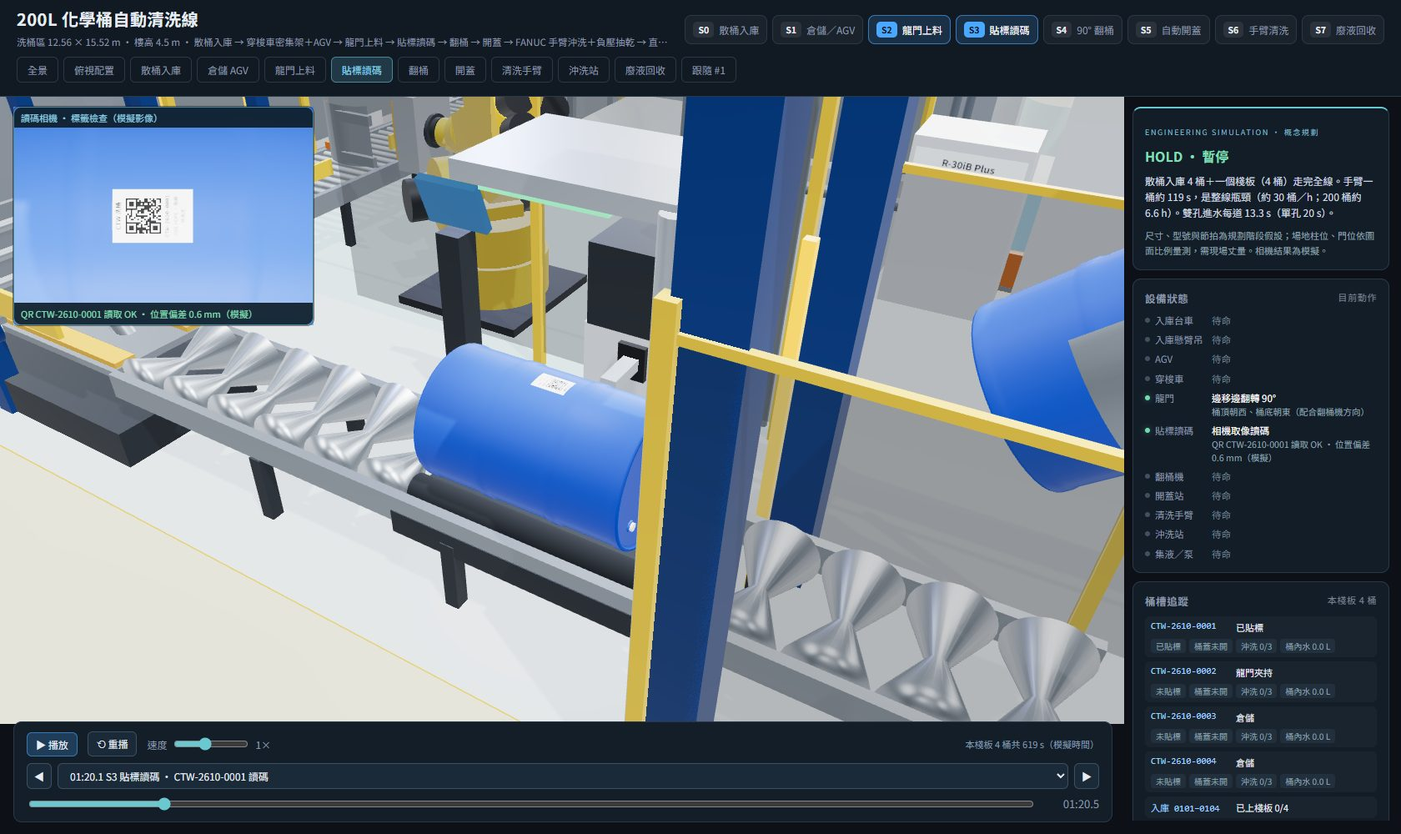
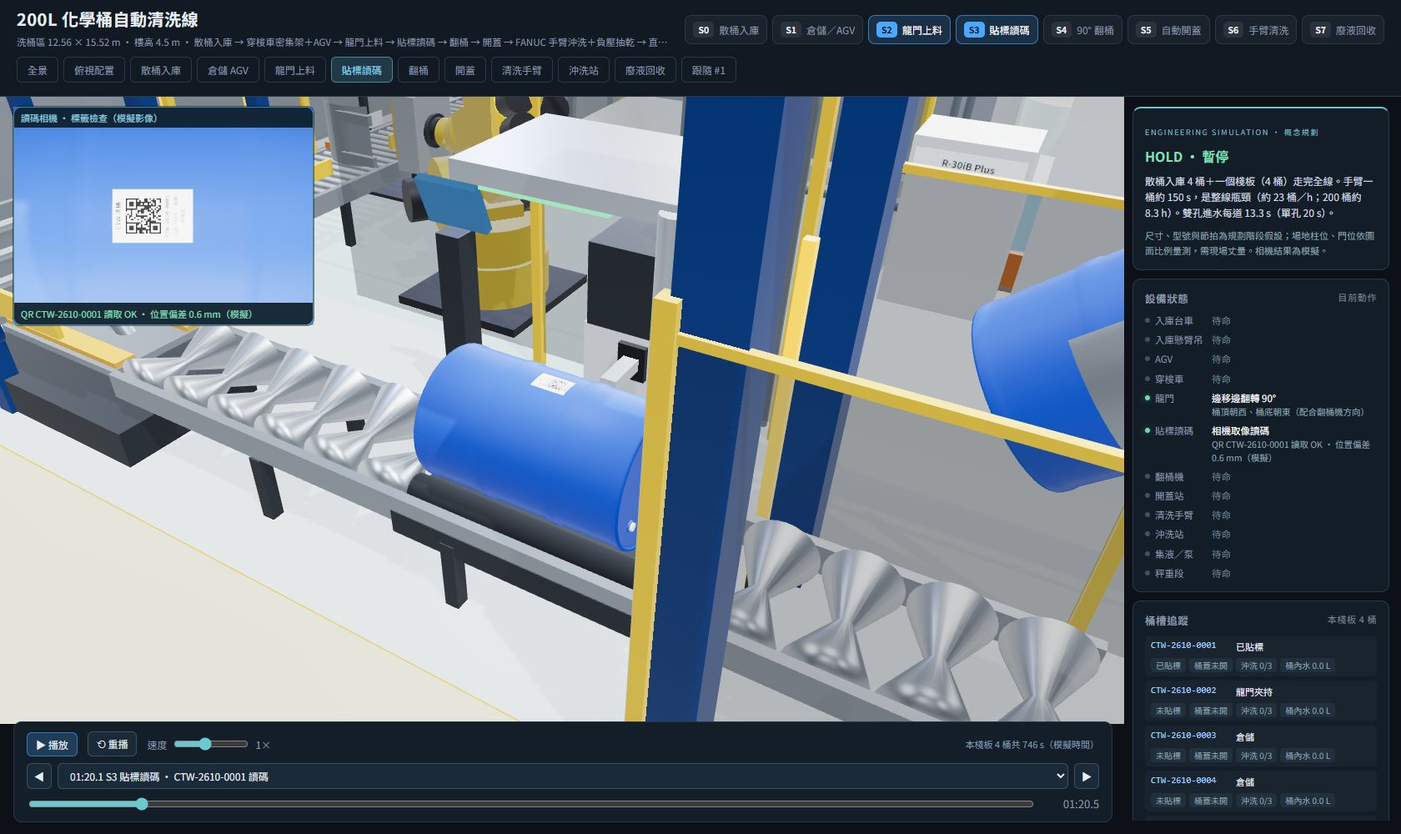
Dry drum walls with hot air, weigh residue, split acid and alkali waste
- After vacuuming the pooled water, switch the 3/4" lance to 70 C hot
  air while the bottom lance keeps suction, so the wall film leaves with
  the airflow (30 s). Adds heater HB-1 and its piping.
- Turn the return position into a weighing section; residue = weight
  minus the per-drum tare registered at first wash, released below
  100 g. Drum panel shows the residue.
- Route first and second rinses by drum ID to TK-WA (acid) or TK-WB
  (alkali); the bund extends west into the reserve area.
- Model one pallet shuttle per level (3 in total), moved between lanes
  by the AGV.

Robot cycle is now 150 s per drum (about 24 drums/h), kept as decided.
All geometry checks pass.

diff --git a/TestCode/ChemicalTankWashing/web/js/sequence.js b/TestCode/ChemicalTankWashing/web/js/sequence.js
@@ -1,7 +1,7 @@
 // 動畫排程：每台設備與每個桶各有一條時間軌，依站位占用（流水線阻塞）推算交接時刻。
 // 任一時刻的畫面完全由絕對時間決定，倒退、跳站與連續播放結果一致。
 import * as THREE from 'three';
-import { RACK, PALLET, DRUM, AGV, FORK, AISLE, PALLET_STATION, GANTRY, LYING, LABEL, UPENDER, UPRIGHT, DECAP, BOOTH, WASTE, INBOUND } from './layout.js';
+import { RACK, PALLET, DRUM, AGV, FORK, AISLE, PALLET_STATION, GANTRY, LYING, LABEL, UPENDER, UPRIGHT, DECAP, BOOTH, WASTE, INBOUND, WEIGH } from './layout.js';
 import { jibPoint, jibTarget, DOLLY_H } from './inbound.js';
 import { smooth, D2R } from './parts.js';
 import { JOINTS, SPEED } from './robot.js';
@@ -40,6 +40,10 @@ export const IN_IDS = [101, 102, 103, 104].map(i => `CTW-2610-${String(i).padSta
 // 時間軌名稱：產線 4 桶＋入庫 4 桶
 export const DRUM_KEYS = [...DRUM_IDS.map((_, k) => 'drum' + k), ...IN_IDS.map((_, k) => 'in' + k)];
 const YAW0 = [37, 151, 263, 312], YAW_IN = [12, 205, 98, 300];
+// 桶內原化學品（標籤讀碼後由 MES 帶出）：決定廢液進酸槽或鹼槽
+export const CHEM = ['acid', 'alkali', 'acid', 'alkali'];
+const RESIDUAL_G = [46, 38, 57, 41];   // 模擬的秤重殘水量（g）
+const TANK_NAME = { WA: 'TK-WA 酸性廢液槽', WB: 'TK-WB 鹼性廢液槽', R: 'TK-R 回收槽' };
 // 每次沖洗時間：兩支噴槍同時進水（2" 旋轉噴頭＋3/4" 直噴）
 export const SPRAY_S = WASTE.rinseL / (BOOTH.flow.big + BOOTH.flow.small) * 60;
 export const SPRAY_SINGLE_S = WASTE.rinseL / BOOTH.flow.big * 60;
@@ -57,13 +61,14 @@ export function createSequence({ robot }) {
   const decap = track('decap', { hx: 0, hz: 0, hy: DECAP.safeY, spinBig: 0, spinSmall: 0, flash: false, clamp: 0, table: 0, caps: 0, heldBig: false, heldSmall: false });
   const grip = track('grip', { jaw: 0 });
   // lance：0 收回、1 噴洗深度、BOOTH.suckExt 伸到桶底抽液；lance2 為 3/4" 直噴頭
-  const booth = track('booth', { lance: 0, lance2: 0, spray: false, vac: false, src: 'R', pour: '', pool: 0 });   // pour：倒液中的桶序（字串，不插值）
-  const sump = track('sump', { level: 0, pump: false, dest: 'W' });
+  const booth = track('booth', { lance: 0, lance2: 0, spray: false, vac: false, hot: false, src: 'R', pour: '', pool: 0 });
+  const scale = track('scale', { on: false, g: 0 });   // pour：倒液中的桶序（字串，不插值）
+  const sump = track('sump', { level: 0, pump: false, dest: 'WA' });
   const makeup = track('makeup', { on: false });   // TK-F 液位控制補水（廠務自來水／RO）
-  const tanks = track('tanks', { W: WASTE.tanks.W.init, R: WASTE.tanks.R.init, F: WASTE.tanks.F.init });
+  const tanks = track('tanks', Object.fromEntries(Object.entries(WASTE.tanks).map(([k, t]) => [k, t.init])));
   const jib = track('jib', { a: INBOUND.jib.park, r: 700, y: 2000, clamp: 0 });
   const dolly = track('dolly', { x: INBOUND.dolly.x0 });
-  const drums = DRUM_IDS.map((id, k) => track('drum' + k, { mode: 'pallet', slot: k, yaw: YAW0[k], lx: LYING.place, uz: UPRIGHT.z0, water: 0, capBig: true, capSmall: true, label: false, labelAng: 0, read: false, rinse: 0, dry: false, state: '倉儲' }));
+  const drums = DRUM_IDS.map((id, k) => track('drum' + k, { mode: 'pallet', slot: k, yaw: YAW0[k], lx: LYING.place, uz: UPRIGHT.z0, water: 0, film: 0, weighG: -1, capBig: true, capSmall: true, label: false, labelAng: 0, read: false, rinse: 0, dry: false, state: '倉儲' }));
   const inDrums = IN_IDS.map((id, k) => track('in' + k, { mode: 'hidden', slot: 0, yaw: YAW_IN[k], water: 0, capBig: true, capSmall: true, label: false, labelAng: 0, read: false, rinse: 0, dry: false, state: '廠外待入' }));
   const events = [];
   const ev = (s, station, label) => { events.push({ time: s.start, station, label: label || s.action }); return s; };
@@ -193,7 +198,7 @@ export function createSequence({ robot }) {
     const rs = labeler.add(1.6, { spin: labeler.state.spin + spin / 90 }, { action: '旋轉輥帶動桶身', sub: '標籤轉到正上方' });
     d.add(1.6, { yaw: d.state.yaw + spin }, { at: rs.start });
     ev(labeler.add(.9, { flash: true }, { action: '相機取像讀碼', sub: `QR ${id} 讀取 OK · 位置偏差 0.6 mm（模擬）` }), 'label', `${id} 讀碼`);
-    d.add(0, { read: true }, { at: labeler.t });
+    d.add(0, { read: true, chem: CHEM[k] }, { at: labeler.t });
     labeler.add(.2, { flash: false }, { action: '讀碼完成' });
     r.labelDone = labeler.t;
     // ---- 貼標站 → 緩衝位 → 翻桶機
@@ -258,7 +263,7 @@ export function createSequence({ robot }) {
     const en = rAdd('lin', P.u, 1.8, { action: '送入沖洗站', sub: '2" 與 3/4" 桶口對準兩支噴槍' });
     events.push({ time: en.start, station: 'robot', label: `${id} 進入沖洗站` });
     for (let c = 1; c <= 3; c++) {
-      const src = c === 1 ? 'R' : 'F', dest = c < 3 ? 'W' : 'R';
+      const src = c === 1 ? 'R' : 'F', dest = c < 3 ? (CHEM[k] === 'acid' ? 'WA' : 'WB') : 'R';
       booth.hold(rt);
       booth.add(1, { lance: 1, lance2: 1, src }, { action: `第 ${c} 次沖洗：兩支噴槍伸入桶口`, sub: '2" 旋轉噴頭、3/4" 直噴頭同時伸入約 140 mm' });
       const sp = booth.add(SPRAY_S, { spray: true }, { action: `第 ${c} 次沖洗：雙孔同時進水 ${SPRAY_S.toFixed(1)} s`, sub: `${WASTE.rinseL} L ＝ 2" ${BOOTH.flow.big}＋3/4" ${BOOTH.flow.small} L/min（單孔需 ${SPRAY_SINGLE_S.toFixed(0)} s）；水源 ${src === 'R' ? 'TK-R 回收水' : 'TK-F 清水'}` });
@@ -271,13 +276,13 @@ export function createSequence({ robot }) {
       rAdd('path', null, 5, { motion: shakeAt, action: `第 ${c} 次搖晃`, sub: '繞夾爪軸來回滾轉 ±25°，殘液沖刷桶壁' });
       rAdd('lin', P.pour, 2.2, { action: `第 ${c} 次倒液：翻轉 190°`, sub: '2" 桶口轉到最低點出水，3/4" 在上方當通氣口' });
       booth.hold(rt);
-      const pr = booth.add(BOOTH.pourS, { pour: String(k), pool: 1 }, { action: `倒入集液漏斗 → ${dest === 'W' ? 'TK-W 廢液槽' : 'TK-R 回收槽'}`, sub: `3/4" 通氣不咕嚕，約 ${BOOTH.pourS} s（不通氣約 ${BOOTH.pourNoVentS} s）` });
-      d.add(BOOTH.pourS, { water: c < 3 ? 0 : BOOTH.residualL }, { at: pr.start });
+      const pr = booth.add(BOOTH.pourS, { pour: String(k), pool: 1 }, { action: `倒入集液漏斗 → ${TANK_NAME[dest]}`, sub: `3/4" 通氣不咕嚕，約 ${BOOTH.pourS} s（不通氣約 ${BOOTH.pourNoVentS} s）` });
+      d.add(BOOTH.pourS, { water: c < 3 ? 0 : BOOTH.residualL, film: c < 3 ? 0 : BOOTH.filmG }, { at: pr.start });
       if (k === 0 && c === 1) ev(pr, 'waste', '倒液進集液漏斗');
       sump.add(BOOTH.pourS, { level: 1, dest }, { at: pr.start });
       booth.add(.1, { pour: '', pool: 0 });
-      const pm = sump.add(3, { pump: true, level: 0 }, { action: `P-2 送液 → ${dest === 'W' ? 'TK-W' : 'TK-R'}`, sub: 'V-3 三通閥切換去向' });
-      tanks.add(3, { [dest]: tanks.state[dest] + WASTE.rinseL }, { at: pm.start, action: `集液槽 → ${dest === 'W' ? 'TK-W' : 'TK-R'}` });
+      const pm = sump.add(3, { pump: true, level: 0 }, { action: `P-2 送液 → ${TANK_NAME[dest]}`, sub: dest === 'R' ? 'V-3 切到回收槽' : `依桶號判定${CHEM[k] === 'acid' ? '酸性' : '鹼性'}，V-3／V-4 切換去向` });
+      tanks.add(3, { [dest]: tanks.state[dest] + WASTE.rinseL }, { at: pm.start, action: `集液槽 → ${TANK_NAME[dest]}` });
       if (k === 0 && c === 3) ev(pm, 'waste', '末道沖洗水回收至 TK-R');
       sump.add(0, { pump: false });
       rt = Math.max(rt, pr.start + BOOTH.pourS);
@@ -290,9 +295,14 @@ export function createSequence({ robot }) {
     booth.add(2.2, { lance: BOOTH.suckExt }, { action: '抽液管伸到桶底', sub: '2" 噴槍長行程伸入，吸口距桶底約 15 mm' });
     const vs = booth.add(BOOTH.vacS, { vac: true }, { action: '負壓抽乾殘水', sub: `真空泵 VP-1 抽約 ${BOOTH.residualL} L 殘水 → 集液槽 → TK-R；目標殘水 < 50 mL` });
     if (k === 0) ev(vs, 'waste', '負壓抽乾桶內殘水');
-    d.add(BOOTH.vacS, { water: 0, dry: true }, { at: vs.start });
+    d.add(BOOTH.vacS, { water: 0 }, { at: vs.start });
     sump.add(BOOTH.vacS, { level: .3, dest: 'R' }, { at: vs.start });
-    booth.add(2, { vac: false, lance: 0 }, { action: '抽液管收回' });
+    // 內壁附著水：熱風由 3/4" 進、桶底負壓持續抽，水膜與水氣一起帶走
+    booth.add(1, { lance2: 1 }, { action: '3/4" 噴槍切換熱風並伸入', sub: `HB-1 熱風機 ${BOOTH.hotAirC}°C 乾燥空氣` });
+    const hd = booth.add(BOOTH.dryS, { hot: true }, { action: '熱風吹乾＋負壓抽氣', sub: `熱風由 3/4" 進、2" 桶底負壓抽出，帶走內壁約 ${BOOTH.filmG} g 附著水與水氣` });
+    if (k === 0) ev(hd, 'waste', '熱風吹乾內壁附著水');
+    d.add(BOOTH.dryS, { film: RESIDUAL_G[k], dry: true, state: '熱風吹乾' }, { at: hd.start });
+    booth.add(2, { hot: false, vac: false, lance: 0, lance2: 0 }, { action: '熱風、負壓停止，噴槍收回' });
     sump.add(1.5, { pump: true, level: 0 }, { action: 'P-2 送液 → TK-R' }); sump.add(0, { pump: false });
     rt = booth.t;
     rAdd('lin', P.u, 1.5, { action: '轉正' });
@@ -305,7 +315,12 @@ export function createSequence({ robot }) {
     grip.hold(rt); grip.add(.8, { jaw: 0 }, { action: '夾爪鬆開' }); rt = grip.t;
     d.add(0, { mode: 'upright', uz: UPRIGHT.place, yaw: 90, state: '已洗淨' }, { at: rt });
     ev(rAdd('lin', P.retract, 1, { action: '夾爪退出' }), 'robot', `${id} 放回輸送線`);
-    d.add(travelUp(UPRIGHT.handoff - UPRIGHT.place), { uz: UPRIGHT.handoff, state: '送往裝填區' }, { at: rt });
+    // 秤重段：殘水 = 秤重 − 桶號建檔的空桶重，< 100 g 才放行（NG 時手臂夾回補吹）
+    const wg = scale.add(WEIGH.sec, { on: true, g: RESIDUAL_G[k] }, { at: rt + 1, action: '秤重確認乾燥', sub: `殘水 ${RESIDUAL_G[k]} g < ${WEIGH.limitG} g，放行（模擬）` });
+    if (k === 0) ev(wg, 'robot', '秤重確認殘水 < 100 g');
+    scale.add(0, { on: false });
+    d.add(0, { weighG: RESIDUAL_G[k], state: '秤重 OK' }, { at: scale.t });
+    d.add(travelUp(UPRIGHT.handoff - UPRIGHT.place), { uz: UPRIGHT.handoff, state: '送往裝填區' }, { at: scale.t });
     r.handoff = d.t;
     d.add(2.5, { state: '交裝填區' });
     d.add(0, { mode: 'gone' });

diff --git a/TestCode/ChemicalTankWashing/web/js/washing.js b/TestCode/ChemicalTankWashing/web/js/washing.js
@@ -52,6 +52,9 @@ export function createWashing(scene) {
   const sprayMat = MAT.water.clone(); sprayMat.opacity = .35; sprayMat.side = THREE.DoubleSide;
   const spray = new THREE.Mesh(new THREE.ConeGeometry(240, 420, 24, 1, true), sprayMat); spray.position.y = 210; spray.visible = false; lance.add(spray);
   const jet = new THREE.Mesh(new THREE.CylinderGeometry(14, 22, 700, 10, 1, true), sprayMat); jet.position.y = -350; jet.visible = false; lance2.add(jet);
+  // 熱風機 HB-1（屋頂）：鼓風機＋電熱器，經 3/4" 噴槍送入熱風
+  box(group, 460, 340, 380, MAT.steelOrange, 9150, H + 170, 15150);
+  plate(group, ['HB-1 熱風機 70°C'], 600, 120, [9150, H + 430, 14955], Math.PI, { w: 640, h: 110 });
   // 真空泵 VP-1（屋頂）：抽液管頂端軟管 → 真空泵 → 集液槽
   box(group, 520, 380, 420, MAT.steelBlue, 9850, H + 190, 15150);
   plate(group, ['VP-1 真空泵（負壓抽液）'], 700, 120, [9850, H + 480, 14935], Math.PI, { w: 640, h: 110 });
@@ -69,7 +72,7 @@ export function createWashing(scene) {
   for (const [k, t] of Object.entries(WASTE.tanks)) {
     const shell = cyl(group, t.r, t.h, MAT.tankW, t.x, 40 + t.h / 2, t.z, 'y', 36); shell.castShadow = false;
     cyl(group, t.r + 5, 30, MAT.ppSolid, t.x, 40 + t.h + 15, t.z, 'y', 36);
-    const liquid = cyl(group, t.r - 25, 1, k === 'W' ? MAT.tankWaste : k === 'R' ? MAT.tankClean : MAT.tankFresh, t.x, 50, t.z, 'y', 32);
+    const liquid = cyl(group, t.r - 25, 1, k === 'WA' ? MAT.tankWaste : k === 'WB' ? MAT.tankAlkali : k === 'R' ? MAT.tankClean : MAT.tankFresh, t.x, 50, t.z, 'y', 32);
     plate(group, [t.name, `${t.cap} L`], Math.max(700, t.r * 1.8), 230, [t.x, t.h + 330, t.z - t.r - 10], Math.PI, { w: 640, h: 210 });
     tanks[k] = { t, liquid };
   }
@@ -79,22 +82,28 @@ export function createWashing(scene) {
   box(group, 250, 420, 360, MAT.ppDark, p2x, 210, p2z); cyl(group, 140, 50, MAT.ppSolid, p2x, 260, p2z - 200, 'z', 20); cyl(group, 140, 50, MAT.ppSolid, p2x, 260, p2z + 200, 'z', 20);
   plate(group, ['P-1 沖洗泵'], 420, 110, [p1x + 130, 560, p1z], Math.PI / 2, { w: 512, h: 130 });
   plate(group, ['P-2 隔膜泵'], 420, 110, [p2x + 130, 560, p2z], Math.PI / 2, { w: 512, h: 130 });
-  const tW = WASTE.tanks.W, tR = WASTE.tanks.R, tF = WASTE.tanks.F;
+  const tA = WASTE.tanks.WA, tB = WASTE.tanks.WB, tR = WASTE.tanks.R, tF = WASTE.tanks.F;
   const pipes = {
     fromF: pipe(group, [[tF.x + tF.r, 150, tF.z], [p1x - 180, 150, tF.z], [p1x - 180, 150, p1z - 160], [p1x - 60, 300, p1z - 160]], 30, 0x8fd3ff),
     fromR: pipe(group, [[tR.x + tR.r, 150, tR.z], [p1x - 60, 150, tR.z], [p1x - 60, 300, p1z - 160]], 30, 0x58b6f2),
     supply: pipe(group, [[p1x, 420, p1z - 160], [p1x, 2800, p1z - 160], [lx, 2800, p1z - 160], [lx, 2800, lz - 300], [lx2, 2800, lz2 - 300], [lx2, H + 320, lz2 - 300], [lx2, H + 320, lz2]], 30, 0x4aa8ff),
     supply2: pipe(group, [[lx, 2800, lz - 300], [lx, 2800, lz - 150], [lx, H + 1350, lz - 150], [lx, H + 1350, lz]], 26, 0x4aa8ff),
+    hot: pipe(group, [[9150, H + 340, 15150], [9150, H + 700, 15150], [lx2, H + 700, 15150], [lx2, H + 700, lz2 + 150], [lx2, H + 320, lz2 + 150], [lx2, H + 320, lz2 + 40]], 26, 0xff5a3c),
     vac: pipe(group, [[lx, H + 1350, lz + 120], [lx, H + 1350, 15150], [9850, H + 1350, 15150], [9850, H + 380, 15150]], 26, 0xb07cff),
     vacOut: pipe(group, [[10110, H + 100, 15150], [10150, H + 100, 15150], [10150, 120, 15150], [fx + 300, 120, 15150], [fx + 300, 120, fz + 300]], 30, 0xb07cff),
     sump: pipe(group, [[fx - 300, 120, fz], [b.x0 - 150, 120, fz], [b.x0 - 150, 120, p2z], [p2x + 125, 120, p2z]], 36, 0xd88a3c),
-    toW: pipe(group, [[p2x, 420, p2z], [p2x, 2100, p2z], [tW.x, 2100, p2z], [tW.x, 2100, tW.z], [tW.x, 40 + tW.h, tW.z]], 34, 0xd88a3c),
+    riser: pipe(group, [[p2x, 420, p2z], [p2x, 2100, p2z]], 34, 0xd88a3c),
+    toWB: pipe(group, [[p2x, 2100, p2z], [tB.x, 2100, p2z], [tB.x, 2100, tB.z], [tB.x, 40 + tB.h, tB.z]], 34, 0xb07cff),
+    toWA: pipe(group, [[p2x, 2100, p2z], [p2x, 2100, p2z + 200], [tA.x, 2100, p2z + 200], [tA.x, 2100, tA.z], [tA.x, 40 + tA.h, tA.z]], 34, 0xff7a45),
     toR: pipe(group, [[p2x, 2100, p2z], [p2x, 2100, tR.z], [tR.x, 2100, tR.z], [tR.x, 40 + tR.h, tR.z]], 34, 0x3dd68c),
     city: pipe(group, [[tF.x, 2400, ROOM.D], [tF.x, 2400, tF.z], [tF.x, 40 + tF.h, tF.z]], 26, 0x8fd3ff),
-    out: pipe(group, [[tW.x, 150, tW.z + tW.r], [tW.x, 150, ROOM.D - 60], [tW.x, 900, ROOM.D - 60]], 34, 0xd88a3c),
+    outA: pipe(group, [[tA.x, 150, tA.z + tA.r], [tA.x, 150, ROOM.D - 60], [tA.x, 900, ROOM.D - 60]], 34, 0xff7a45),
+    outB: pipe(group, [[tB.x, 150, tB.z + tB.r], [tB.x, 150, ROOM.D - 60], [tB.x, 900, ROOM.D - 60]], 34, 0xb07cff),
   };
   box(group, 180, 180, 180, MAT.steelOrange, p2x, 2100, p2z);                         // V-3 三通切換閥
-  box(group, 260, 160, 120, MAT.steelOrange, tW.x, 900, ROOM.D - 70);                   // 委外清運接頭  // 排氣
+  for (const t of [tA, tB]) box(group, 260, 160, 120, MAT.steelOrange, t.x, 900, ROOM.D - 70);   // 委外清運接頭（酸、鹼分開）
+  box(group, 160, 160, 160, MAT.steelOrange, p2x, 2100, p2z + 200);                     // V-4 酸／鹼切換閥
+   // 排氣
   cyl(group, 140, ROOM.H - H - 100, MAT.ppSolid, 9000, H + (ROOM.H - H - 100) / 2, 15150, 'y', 20);
   plate(group, ['排氣 → 廠務洗滌塔'], 900, 140, [9000, 3700, 14990], Math.PI, { w: 640, h: 100 });
 
@@ -110,7 +119,7 @@ export function createWashing(scene) {
       } else stream.visible = false;
       pool.visible = pl > 0; pool.scale.setScalar(Math.max(.2, pl));
       sumpLevel.scale.y = Math.max(1, sump * 200); sumpLevel.position.y = 10 + sumpLevel.scale.y / 2;
-      if (lv) for (const k of ['W', 'R', 'F']) { const { t, liquid } = tanks[k], h = Math.max(1, (lv[k] / t.cap) * (t.h - 40)); liquid.scale.y = h; liquid.position.y = 50 + h / 2; }
+      if (lv) for (const k of ['WA', 'WB', 'R', 'F']) { const { t, liquid } = tanks[k], h = Math.max(1, (lv[k] / t.cap) * (t.h - 40)); liquid.scale.y = h; liquid.position.y = 50 + h / 2; }
       for (const [k, p] of Object.entries(pipes)) p.setFlow(!!flows[k]);
     },
     tick(dt) { for (const p of Object.values(pipes)) p.tick(dt); streamTex.offset.y -= dt * 3; },

diff --git a/TestCode/ChemicalTankWashing/web/js/main.js b/TestCode/ChemicalTankWashing/web/js/main.js
@@ -77,8 +77,9 @@ function applyState(sm) {
   washing.set({
     lance: b.lance, lance2: b.lance2, spray: b.spray, pool: b.pool, sump: sp.level, tanks: st.tanks,
     pour: b.pour !== '' ? drums[+b.pour].bungWorld('big') : null,
-    flows: { vac: b.vac, vacOut: b.vac, supply: b.spray, supply2: b.spray, fromF: b.spray && b.src === 'F', fromR: b.spray && b.src === 'R', sump: sp.pump, toW: sp.pump && sp.dest === 'W', toR: sp.pump && sp.dest === 'R', city: st.makeup.on },
+    flows: { hot: b.hot, vac: b.vac, vacOut: b.vac, supply: b.spray, supply2: b.spray, fromF: b.spray && b.src === 'F', fromR: b.spray && b.src === 'R', sump: sp.pump, riser: sp.pump, toWA: sp.pump && sp.dest === 'WA', toWB: sp.pump && sp.dest === 'WB', toR: sp.pump && sp.dest === 'R', city: st.makeup.on },
   });
+  line.setScale(st.scale.on);
   line.setTower(playing ? 'run' : 'wait');
 }
 
@@ -97,11 +98,11 @@ for (const s of STATIONS) {
   const b = document.createElement('button'); b.className = 'st'; b.dataset.st = s.id; b.innerHTML = `<span class="idx">${s.short}</span>${s.name}`;
   b.onclick = () => { seekTo(seq.stationStart[s.id]); setView(VIEW_OF[s.id]); }; ui.stations.appendChild(b);
 }
-const EQUIP = [['dolly', '入庫台車'], ['jib', '入庫懸臂吊'], ['agv', 'AGV'], ['shuttle', '穿梭車'], ['gantry', '龍門'], ['labeler', '貼標讀碼'], ['upender', '翻桶機'], ['decap', '開蓋站'], ['robot', '清洗手臂'], ['booth', '沖洗站'], ['sump', '集液／泵']];
+const EQUIP = [['dolly', '入庫台車'], ['jib', '入庫懸臂吊'], ['agv', 'AGV'], ['shuttle', '穿梭車'], ['gantry', '龍門'], ['labeler', '貼標讀碼'], ['upender', '翻桶機'], ['decap', '開蓋站'], ['robot', '清洗手臂'], ['booth', '沖洗站'], ['sump', '集液／泵'], ['scale', '秤重段']];
 ui.equip.innerHTML = EQUIP.map(([k, n]) => `<div class="row" data-k="${k}"><span class="name"><i></i>${n}</span><span class="act"></span></div>`).join('');
 ui.drums.innerHTML = DRUM_IDS.map((id, k) => `<div class="d" data-k="${k}"><span class="id">${id}</span><span class="state"></span><span class="tags"></span></div>`).join('')
   + `<div class="d inb"><span class="id">入庫 0101–0104</span><span class="state"></span></div>`;
-const TANKS = [['W', '#c77b34'], ['R', '#58b6f2'], ['F', '#8fd3ff']];
+const TANKS = [['WA', '#c77b34'], ['WB', '#8c6bd6'], ['R', '#58b6f2'], ['F', '#8fd3ff']];
 ui.tanks.innerHTML = TANKS.map(([k, c]) => `<div class="tank" data-k="${k}"><span>${WASTE.tanks[k].name}</span><span class="bar"><i style="background:${c}"></i></span><span class="v"></span></div>`).join('');
 const checks = layoutChecks();
 ui.checks.innerHTML = checks.map(c => `<li class="${c.ok ? '' : 'ng'}"><span class="mk">${c.ok ? '✓' : '!'}</span><span><b>${c.group}｜${c.name}</b><small>${c.value}</small></span></li>`).join('');
@@ -128,7 +129,7 @@ const VIEWS = {
   storage: [[2300, 4300, 8600], [6300, 1500, 3800]], gantry: [[1200, 4300, 13800], [4700, 1100, 9700]],
   label: [[6000, 2900, 7300], [7500, 900, 9800]], upender: [[8400, 3600, 7400], [10900, 1000, 10100]],
   decap: [[9700, 3300, 8900], [11290, 1350, 11000]], robot: [[6200, 5600, 10200], [9900, 1100, 13400]],
-  booth: [[7300, 2300, 15000], [9400, 1150, 14550]], waste: [[2600, 3400, 15300], [5900, 900, 14300]],
+  booth: [[7300, 2300, 15000], [9400, 1150, 14550]], waste: [[1500, 4300, 11600], [5000, 800, 14600]],
   inbound: [[-900, 3900, 7400], [2300, 900, 2900]],
 };
 function setView(name, instant = false) {
@@ -173,10 +174,10 @@ function drawHud() {
     const s = st['drum' + row.dataset.k];
     row.querySelector('.state').textContent = s.state;
     row.querySelector('.tags').innerHTML = [
-      [s.label ? (s.read ? '標籤讀碼 OK' : '已貼標') : '未貼標', s.read],
+      [s.label ? (s.read ? `讀碼 OK · ${s.chem === 'acid' ? '酸性' : '鹼性'}` : '已貼標') : '未貼標', s.read],
       [s.capBig || s.capSmall ? '桶蓋未開' : '桶口已開', !s.capBig && !s.capSmall],
       [`沖洗 ${s.rinse}/3`, s.rinse === 3 && s.mode !== 'robot'],
-      [s.dry ? '殘水已抽乾' : `桶內水 ${s.water.toFixed(1)} L`, s.dry],
+      [s.weighG >= 0 ? `殘水 ${s.weighG} g OK` : s.dry ? `熱風吹乾（附著 ${s.film.toFixed(0)} g）` : s.film > 0 ? `附著水 ${s.film.toFixed(0)} g` : `桶內水 ${s.water.toFixed(1)} L`, s.weighG >= 0],
     ].map(([t, ok]) => `<span class="tag ${ok ? 'ok' : ''}">${t}</span>`).join('');
   }
   // 手臂負載：夾持中的桶＋桶內水量

diff --git a/TestCode/ChemicalTankWashing/web/js/layout.js b/TestCode/ChemicalTankWashing/web/js/layout.js
@@ -40,6 +40,8 @@ export const RACK = {
   topBeam: 3700,
   shuttleLift: 40,
   emptyLane: 4, emptyLevel: 0, emptyStack: 5,   // 空棧板疊放道（東側最後一道底層，緩衝用）
+  // 穿梭車每層一台共 3 台，換道時由 AGV 以貨叉搬運（每次約 1 分鐘）；[道, 層, 停放位]
+  shuttles: [[3, 0, 3], [1, 1, 3], [0, 2, 3]],
   demo: { lane: 1, level: 1 },                  // 動畫取料：第 2 道第 2 層
   putaway: { lane: 2, level: 0 },               // 動畫入庫：第 3 道底層前位（初始空位）
   shortLane: 0, shortFront: 4100,               // 第 1 道只做 3 深（前緣退到 Z 4100）
@@ -109,7 +111,12 @@ export const BOOTH = {
   flow: { big: 60, small: 30 }, pourS: 3.5, pourNoVentS: 7,
   // 末道倒液後負壓抽乾：2" 噴槍長行程伸到桶底低角（吸口距桶底約 15 mm）；桶身朝 2" 側傾 3°，傾 6° 時直管會碰到桶壁
   suckExt: 2.76, suckTilt: 3, vacS: 6, residualL: .4,
+  // 內壁附著水：3/4" 噴槍切換熱風（HB-1，約 70°C 乾燥空氣，低於 HDPE 軟化溫度），2" 吸管在桶底持續負壓，
+  // 空氣由 3/4" 進、2" 出，帶走水膜與水氣
+  dryS: 30, hotAirC: 70, filmG: 120,
 };
+// 乾燥驗收：放回位為秤重段，殘水 = 秤重 − 該桶號建檔的空桶重；同型號空桶重差約 ±100 g，故需逐桶建檔
+export const WEIGH = { limitG: 100, sec: 2.5, resolutionG: 10 };
 
 // 手臂負載（R-2000iC/165F）：額定與手腕容許值取型錄等級概略值，採購前以 FANUC 型錄核對
 export const PAYLOAD = {
@@ -139,11 +146,13 @@ export function maxWaterL() {
 export const FENCE = [[7000, 15520], [7000, 11300], [11700, 11300], [11700, 13850], [10200, 13850], [10200, 15520]];
 export const GANTRY_FENCE = [[2900, 8950], [6700, 8950], [6700, 10450], [2900, 10450]];
 
-// 廢液回收：放在清洗區圍籬外西南側（控制櫃南面）的防溢堤內，避開手臂迴轉範圍
+// 廢液回收：放在清洗區圍籬外西南側（控制櫃南面）的防溢堤內，避開手臂迴轉範圍。
+// 酸、鹼殘液依讀到的桶號分流到兩個廢液槽，避免混合後發熱或產生氣體；防溢堤往西延伸到預留區
 export const WASTE = {
-  bund: [4450, 13950, 7000, 15420],
+  bund: [3300, 13950, 7000, 15420],
   tanks: {
-    W: { x: 5100, z: 14700, r: 600, h: 1800, cap: 2000, init: 640, name: 'TK-W 廢液槽' },
+    WA: { x: 3950, z: 14690, r: 550, h: 1800, cap: 1600, init: 520, name: 'TK-WA 酸性廢液槽' },
+    WB: { x: 5150, z: 14690, r: 550, h: 1800, cap: 1600, init: 380, name: 'TK-WB 鹼性廢液槽' },
     R: { x: 6200, z: 14400, r: 400, h: 1600, cap: 800, init: 380, name: 'TK-R 回收沖洗水槽' },
     F: { x: 6200, z: 15100, r: 280, h: 1500, cap: 350, init: 260, name: 'TK-F 清水暫存槽' },
   },

diff --git a/TestCode/ChemicalTankWashing/web/js/line.js b/TestCode/ChemicalTankWashing/web/js/line.js
@@ -98,9 +98,13 @@ export function createLine(scene) {
   for (const [z0, z1] of [[up.z0 + 450, up.pick - 350], [up.pick + 350, up.place - 350], [up.place + 350, up.z1]])
     for (const s of [-1, 1]) box(group, 30, 120, z1 - z0, MAT.yellow, up.x + s * 340, up.top + 160, (z0 + z1) / 2);
   for (const z of [up.pick + DRUM.R + 20, up.place + DRUM.R + 20]) box(group, 120, 60, 40, MAT.steelOrange, up.x + 300, up.top + 40, z);   // 定位擋塊
+  // 放回位秤重段：輸送段架在四顆荷重元上，旁邊有秤重顯示器
+  box(group, 780, 30, 760, MAT.steelDark, up.x, 40, up.place);
+  for (const [dx, dz] of [[-330, -330], [330, -330], [-330, 330], [330, 330]]) cyl(group, 40, 60, MAT.steelBlue, up.x + dx, 85, up.place + dz);
+  const scaleScreen = box(group, 40, 200, 320, MAT.screen, up.x + 520, 1150, up.place); box(group, 60, 1050, 60, MAT.steelDark, up.x + 520, 525, up.place);
   box(group, 700, 40, 40, MAT.steelOrange, up.x, up.top + 40, up.z1 - 20);
   plate(group, ['取桶位'], 420, 110, [up.x - 420, up.top + 420, up.pick], -Math.PI / 2, { w: 512, h: 130 });
-  plate(group, ['放回位'], 420, 110, [up.x - 420, up.top + 420, up.place], -Math.PI / 2, { w: 512, h: 130 });
+  plate(group, ['放回位＋秤重'], 520, 110, [up.x - 420, up.top + 420, up.place], -Math.PI / 2, { w: 512, h: 110 });
   plate(group, ['→ 裝填區（下一站）'], 900, 160, [up.x - 420, 1150, up.handoff - 200], -Math.PI / 2, { w: 640, h: 110 });
 
   // ---------------------------------------------------------------- 自動開蓋站（相機定位 → 旋轉台對位 → 伺服鎖付軸反轉拆蓋）
@@ -197,6 +201,7 @@ export function createLine(scene) {
       turntable.rotation.y = table * D2R;
       capPile.forEach((c, i) => { c.visible = i < caps; });
     },
+    setScale(on) { scaleScreen.material = on ? MAT.green : MAT.screen; },
     setTower(state) { lamps.forEach((l, i) => { l.material.emissiveIntensity = (state === ['fault', 'wait', 'run'][i]) ? 1.2 : .05; }); },
     socket: k => spindles[k],
   };

diff --git a/TestCode/ChemicalTankWashing/web/index.html b/TestCode/ChemicalTankWashing/web/index.html
@@ -53,7 +53,7 @@
       <div class="tank" data-k="i5"><span>J5 慣量</span><span class="bar"><i></i></span><span class="v"></span></div></div>
       <div class="note">夾爪估 60 kg、殘液估 2 kg；限值為型錄等級概略值，需核對。依 J5 力矩最多可裝約 80 L 水。</div></section>
     <section class="card"><h3>水槽液位 <span class="hint">逆流沖洗</span></h3><div id="tanks" class="tanks"></div>
-      <div class="note">第 1 道用 TK-R 回收水，第 2、3 道用清水；第 1、2 道排 TK-W，第 3 道回收 TK-R。每道 20 L；末道後以真空泵 VP-1 抽乾殘水回 TK-R。TK-F 由廠務水依液位自動補水。</div></section>
+      <div class="note">第 1 道用 TK-R 回收水，第 2、3 道用清水；第 1、2 道依桶號排 TK-WA（酸）或 TK-WB（鹼），第 3 道回收 TK-R。每道 20 L；末道後以真空泵 VP-1 抽乾殘水回 TK-R。TK-F 由廠務水依液位自動補水。</div></section>
     <section class="card"><h3>空間檢核 <span class="hint" id="chkCount"></span></h3><ul id="checks" class="checks"></ul></section>
     <section class="card small">
       <h3>顯示</h3>

diff --git a/TestCode/ChemicalTankWashing/web/js/parts.js b/TestCode/ChemicalTankWashing/web/js/parts.js
@@ -23,7 +23,7 @@ export const MAT = {
   water: std(0x6fc4ff, .1, 0, { transparent: true, opacity: .6, depthWrite: false, emissive: 0x0a3a66, emissiveIntensity: .4 }),
   waste: std(0xd88a3c, .3, 0, { transparent: true, opacity: .75 }),
   tankW: std(0xe7e3d6, .6, 0, { transparent: true, opacity: .55, depthWrite: false }),
-  tankWaste: std(0xc77b34, .4, 0), tankClean: std(0x58b6f2, .4, 0), tankFresh: std(0x8fd3ff, .4, 0),
+  tankWaste: std(0xc77b34, .4, 0), tankAlkali: std(0x8c6bd6, .4, 0), tankClean: std(0x58b6f2, .4, 0), tankFresh: std(0x8fd3ff, .4, 0),
   agv: std(0xee8a26, .45, .2), agvDark: std(0x2b3036, .5, .4),
   cabinet: std(0xd9dde0, .5, .2), screen: std(0x10283a, .3, 0, { emissive: 0x1e6fa8, emissiveIntensity: .6 }),
   green: std(0x3dd68c, .4, 0, { emissive: 0x3dd68c, emissiveIntensity: .8 }),

diff --git a/TestCode/ChemicalTankWashing/web/js/storage.js b/TestCode/ChemicalTankWashing/web/js/storage.js
@@ -74,6 +74,8 @@ export function createStorage(scene, makeDrum) {
   box(shuttle, 1000, 150, 1080, MAT.yellow, 0, -95, 0);
   box(shuttle, 900, 16, 980, MAT.steelDark, 0, -12, 0);
   for (const s of [-1, 1]) box(shuttle, 30, 60, 200, MAT.red, s * 505, -95, 520);
+  // 其他兩層的穿梭車停在各自車道後端（示意；換道由 AGV 搬運）
+  for (const [l, v, p] of RACK.shuttles) if (v !== RACK.demo.level) { const s = shuttle.clone(); s.position.set(RACK.lanes[l], RACK.levels[v], RACK.pos[p]); group.add(s); }
   const laneX = RACK.lanes[RACK.demo.lane], laneY = RACK.levels[RACK.demo.level];
   const zAt = pos => { const i = Math.max(0, Math.min(2.999, Math.floor(pos))); return RACK.pos[i] + (RACK.pos[i + 1] - RACK.pos[i]) * (pos - i); };
 

diff --git a/TestCode/ChemicalTankWashing/README.md b/TestCode/ChemicalTankWashing/README.md
@@ -8,7 +8,11 @@
 - **開蓋**：線上自動開蓋。
 - **上料**：棧板上料用龍門加翻轉夾爪。
 - **入庫**：散桶入庫，依手繪圖箭頭由倉儲西牆南段進入，需要上棧板。
-- **清洗**：雙孔進水；末道倒液後以負壓抽乾殘水。
+- **清洗**：雙孔進水；末道倒液後先以負壓抽乾積水，再用熱風吹乾＋負壓同時帶走內壁附著水。
+- **乾燥驗收**：放回位秤重，殘水 < 100 g 才放行。
+- **廢液**：酸、鹼依桶號分兩個廢液槽。
+- **穿梭車**：每層一台共 3 台，換道由 AGV 搬運。
+- **產能**：維持約 24 桶／h，不加站。
 - **動線**：翻桶後直線送到裝填區。
 
 ## 流程
@@ -21,17 +25,18 @@
 | S3 貼標讀碼 | 貼標頭由南側推出貼標 → 旋轉輥把標籤轉到正上方 → 相機讀 QR | 約 7 s／桶 |
 | S4 90° 翻桶 | L 形搖籃以桶底下緣為軸翻正，接著一路往南直送 | 約 6 s＋復歸 |
 | S5 自動開蓋 | 頂視相機定位 → 旋轉台把 2" 轉北、3/4" 轉南 → 伺服鎖付軸反轉拆蓋 | 約 25 s／桶 |
-| S6 手臂清洗 | R-2000iC/165F 從「取桶位」取下 → 經過渡點送入沖洗站 → 每道：2" 旋轉噴頭與 3/4" 直噴頭同時進水 → 搖晃 → 翻 190° 倒液（3/4" 在上方當通氣口）；共 3 道 → **末道後桶身微傾 3°，2" 噴槍長行程伸到桶底，以真空泵負壓抽乾殘水** → 放回同一條線的「放回位」，再往南直送裝填區 | **約 119 s／桶（瓶頸）** |
-| S7 廢液回收 | 逆流沖洗：第 1 道用 TK-R 回收水，第 2、3 道用清水；第 1、2 道經 P-2 送 TK-W，第 3 道與抽出的殘水回收到 TK-R | 每道 20 L |
+| S6 手臂清洗 | R-2000iC/165F 從「取桶位」取下 → 經過渡點送入沖洗站 → 每道：2" 旋轉噴頭與 3/4" 直噴頭同時進水 → 搖晃 → 翻 190° 倒液（3/4" 在上方當通氣口）；共 3 道 → **末道後桶身微傾 3°，2" 噴槍長行程伸到桶底負壓抽乾積水 → 3/4" 改送 70°C 熱風、桶底持續負壓 30 s，帶走內壁附著水** → 放回同一條線的「放回位」**秤重（殘水 < 100 g 放行）**，再往南直送裝填區 | **約 150 s／桶（瓶頸）** |
+| S7 廢液回收 | 逆流沖洗：第 1 道用 TK-R 回收水，第 2、3 道用清水；第 1、2 道經 P-2 依桶號送 TK-WA（酸）或 TK-WB（鹼），第 3 道與抽出的殘水回收到 TK-R | 每道 20 L |
 
-整線約 30 桶／h，200 桶約 6.6 h。動畫走完「散桶入庫 4 桶＋一個棧板 4 桶清洗」共 619 s，各站並行，交接時刻依站位占用推算。
+整線約 24 桶／h，200 桶約 8.3 h（使用者決定維持，不加站）。動畫走完「散桶入庫 4 桶＋一個棧板 4 桶清洗」共 746 s，各站並行，交接時刻依站位占用推算。
 
 **手臂節拍的組成**：
 - **進水**：雙孔進水每道 13.3 s（2" 60 L/min＋3/4" 30 L/min）；只用 2" 單孔要 20 s，雙孔每桶省約 20 s。
 - **倒液**：3/4" 通氣，每道約 3.5 s；不通氣約 7 s。
-- **負壓抽乾**：每桶多約 16 s。
+- **負壓抽乾積水**：每桶多約 16 s。
+- **熱風吹乾內壁**：每桶多約 33 s。
 
-想再縮短，可以加第二個沖洗站，讓手臂在兩站之間交替；或把每道水量依實測殘液濃度減少。
+若日後需要提高產能，最有效的是加第二個沖洗站，讓手臂在兩站之間交替；熱風吹乾也可以移到下游的獨立乾燥站，手臂節拍可回到約 119 s。
 
 ## 手臂負重（R-2000iC/165F）
 
@@ -77,7 +82,7 @@ python serve.py            # http://127.0.0.1:8775/
 | 項目 | 選型 |
 |---|---|
 | 散桶入庫 | 西牆 1.7 m 捲門、油桶台車、旋臂 2.2 m 懸臂吊＋桶頂 L 環夾具、入庫棧板座 |
-| 倉儲 | 穿梭車密集架（軌頂 150／1,480／2,810 mm），塑膠棧板 1200 × 1200 |
+| 倉儲 | 穿梭車密集架（軌頂 150／1,480／2,810 mm），每層一台穿梭車共 3 台、換道由 AGV 搬運（每次約 1 分鐘），塑膠棧板 1200 × 1200 |
 | AGV | 平衡重式堆高 AGV（雷射導引），舉升 ≥ 3.0 m；柱前地面充電板 |
 | 上料 | 三軸龍門（Z 兩段伸縮）＋伺服翻轉軸＋雙弧形 PU 夾爪 |
 | 輸送 | 橫躺段為水平沙漏形（V 槽，半角 25°）滾輪；立放段為動力滾筒，一路往南到裝填區 |
@@ -85,18 +90,18 @@ python serve.py            # http://127.0.0.1:8775/
 | 翻桶 | L 形搖籃翻轉機＋側夾 |
 | 開蓋 | IDS GigE 頂視相機、旋轉台、XYZ 模組＋2"／3/4" 伺服鎖付軸 |
 | 清洗手臂 | FANUC R-2000iC/165F＋R-30iB Plus＋DCS，加耐酸鹼防護衣 |
-| 沖洗站 | PP 隔間；2" 旋轉噴頭（長行程無桿氣缸，兼負壓抽液管）、3/4" 直噴頭、集液漏斗與集液槽、真空泵 VP-1、排氣接洗滌塔 |
-| 廢液回收 | TK-W 2,000 L、TK-R 800 L、TK-F 350 L、P-1 多段離心泵、P-2 氣動隔膜泵、V-3 三通閥、防溢堤 |
+| 沖洗站 | PP 隔間；2" 旋轉噴頭（長行程無桿氣缸，兼負壓抽液管）、3/4" 直噴頭（兼熱風管）、熱風機 HB-1（70°C）、真空泵 VP-1、集液漏斗與集液槽、排氣接洗滌塔 |
+| 乾燥驗收 | 放回位秤重段（4 顆荷重元，解析度 10 g）；殘水 = 秤重 − 桶號建檔的空桶重 |
+| 廢液回收 | TK-WA 酸性 1,600 L、TK-WB 鹼性 1,600 L、TK-R 800 L、TK-F 350 L、P-1 多段離心泵、P-2 氣動隔膜泵、V-3／V-4 切換閥、防溢堤（往西延伸到預留區） |
 
 R-2000iC 的臂長取型錄概略值。關節零點、J2／J3 連動限位與速度都是假設。
 
 ## 待確認
 
 1. **現場丈量**：柱、門、更衣室位置與紅框深度（誤差約 ±300 mm）；樓高或梁下淨高；西牆外側是否能開 1.7 m 捲門。
-2. **桶規格與殘液**：桶塞位置與螺紋、最大殘液量；抽乾後的殘水標準（模擬設定 < 50 mL）。
-3. **酸鹼分流**：酸、鹼廢液是否分兩個廢液槽（可依桶號自動切換）。
-4. **處理量目標**：每小時 30 桶是否足夠。不夠的話，可以加第二個沖洗站。
-5. **穿梭車數量策略**：每道每層一台，或由 AGV 換道共用。
+2. **桶規格與殘液**：桶塞位置與螺紋、最大殘液量。
+3. **空桶建檔**：同型號空桶重差約 ±100 g，跟殘水標準一樣大，所以要逐桶建檔。做法：第一次清洗時延長熱風吹乾，秤得的重量存成該桶號的空桶重。需要確認建檔流程，以及 MES 裡要存哪些欄位。
+4. **熱風溫度**：70°C 低於 HDPE 軟化溫度，但仍要確認桶內殘留化學品加熱後是否會揮發；排氣已接到洗滌塔。
 6. **其他**：標籤格式與 MES 介面、廢液處理方式、桶蓋是否回用。
 
 ## 驗證
@@ -115,7 +120,7 @@ node --no-warnings --experimental-loader ./tools/three-loader.mjs tools/verify.m
 - 交接瞬間是否跳動；
 - 倒序取樣的一致性。
 
-結果在 [review/verification.json](review/verification.json)：全數通過。手臂追蹤誤差 ≤ 0.05 mm；關節速度最高為額定的 83%；手臂與設備最小淨距 172 mm。
+結果在 [review/verification.json](review/verification.json)：全數通過（總長 746 s、手臂節拍 150 s）。手臂追蹤誤差 ≤ 0.05 mm；關節速度最高為額定的 83%；手臂與設備最小淨距 172 mm。
 
 這是有限取樣檢查，不是連續碰撞證明。
 
